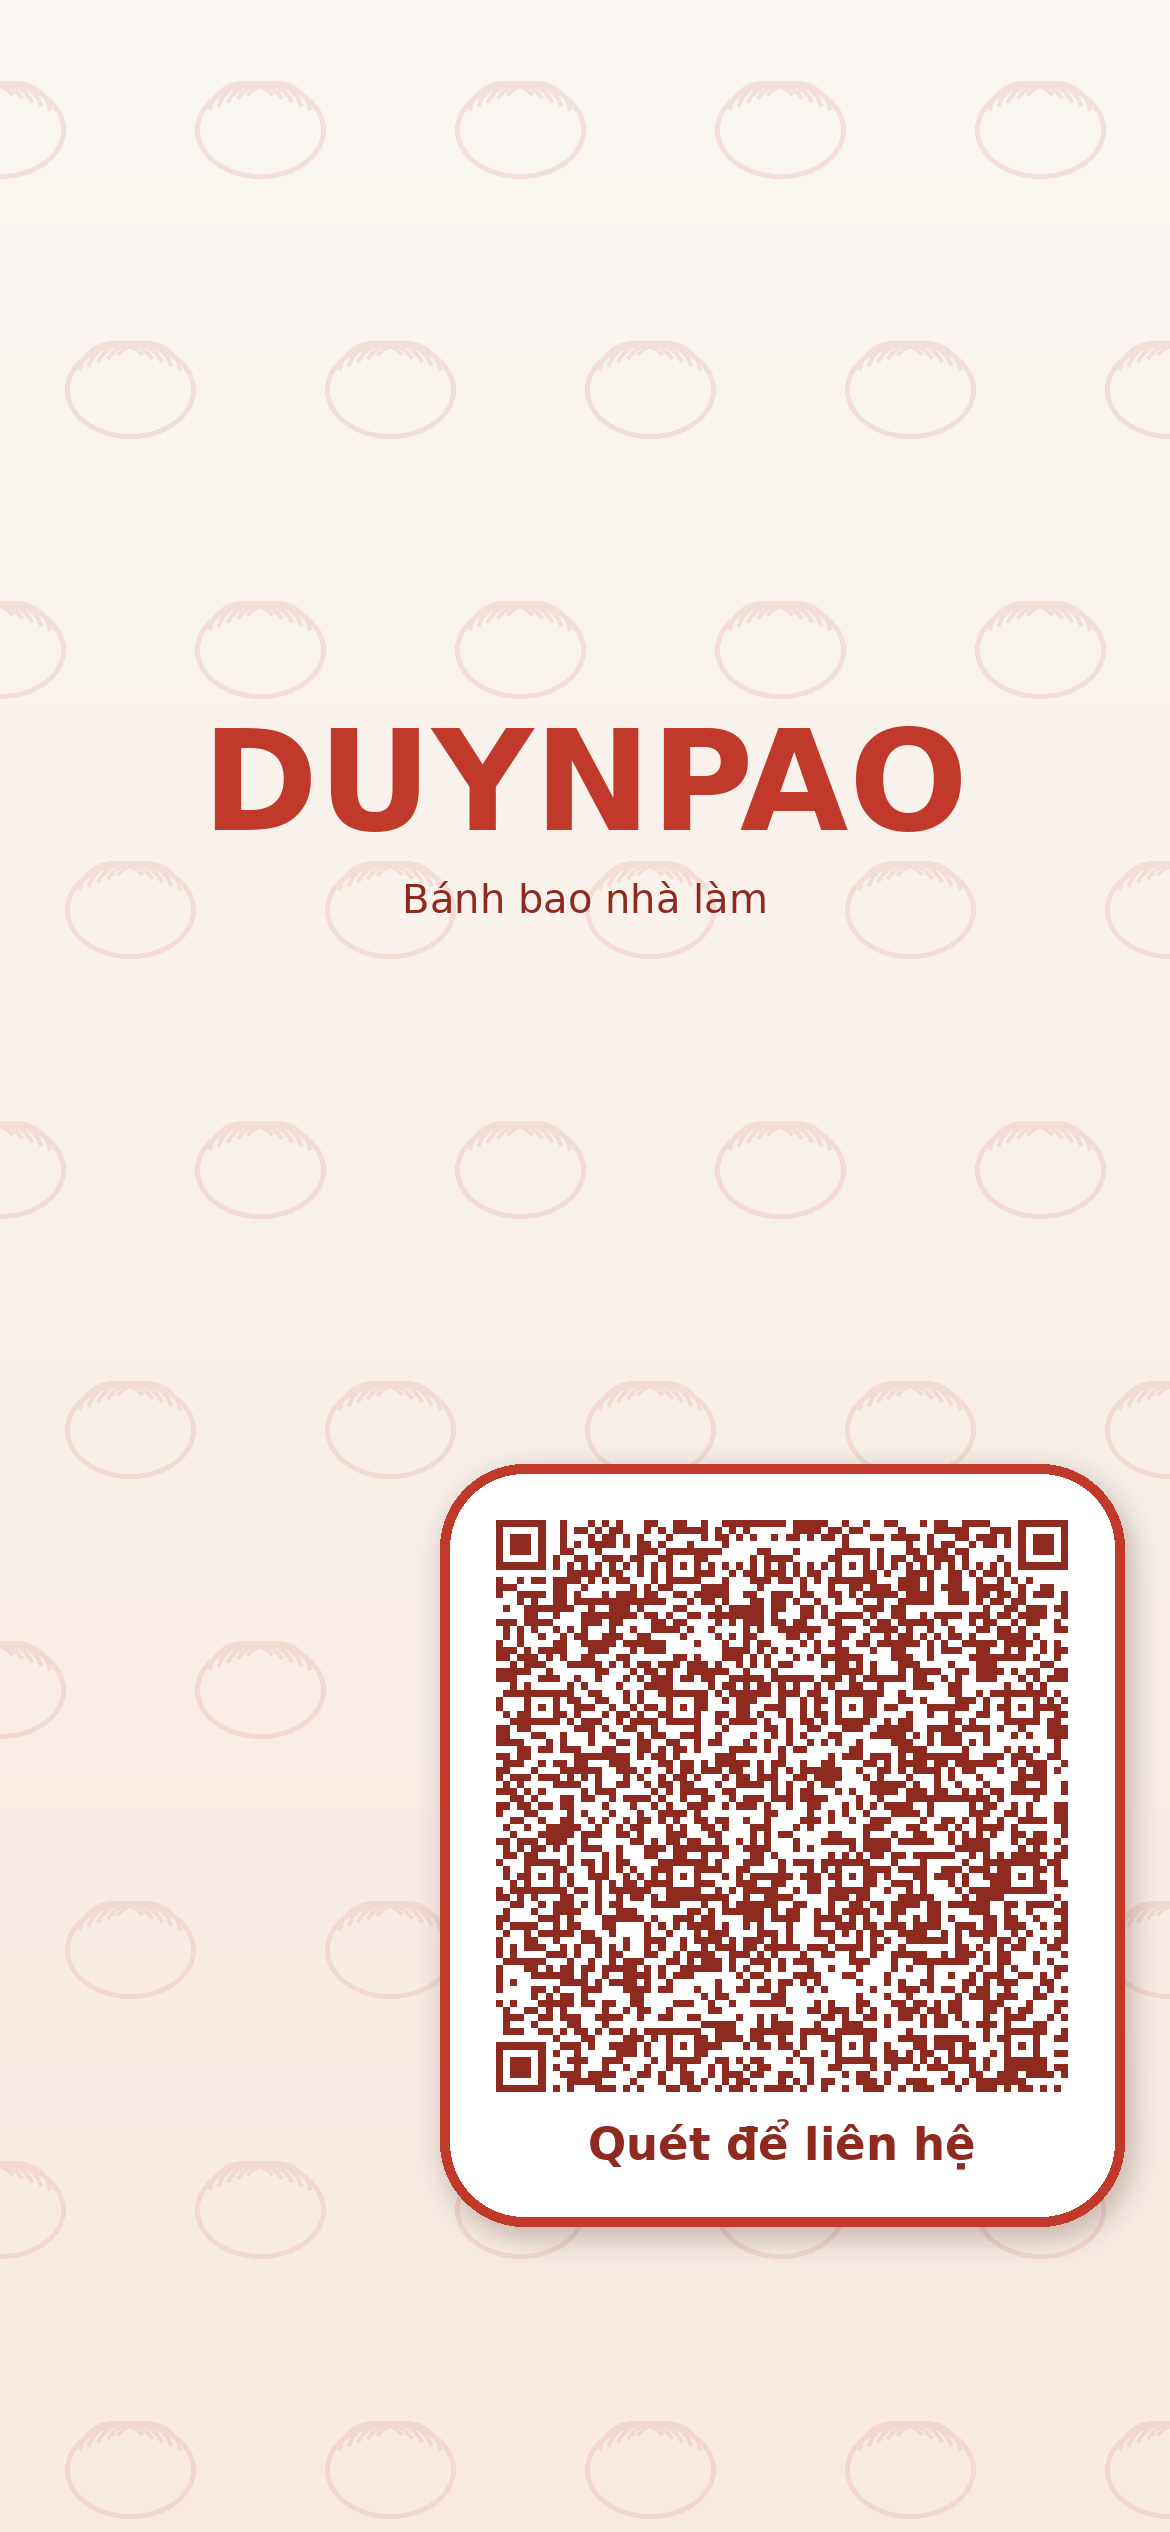
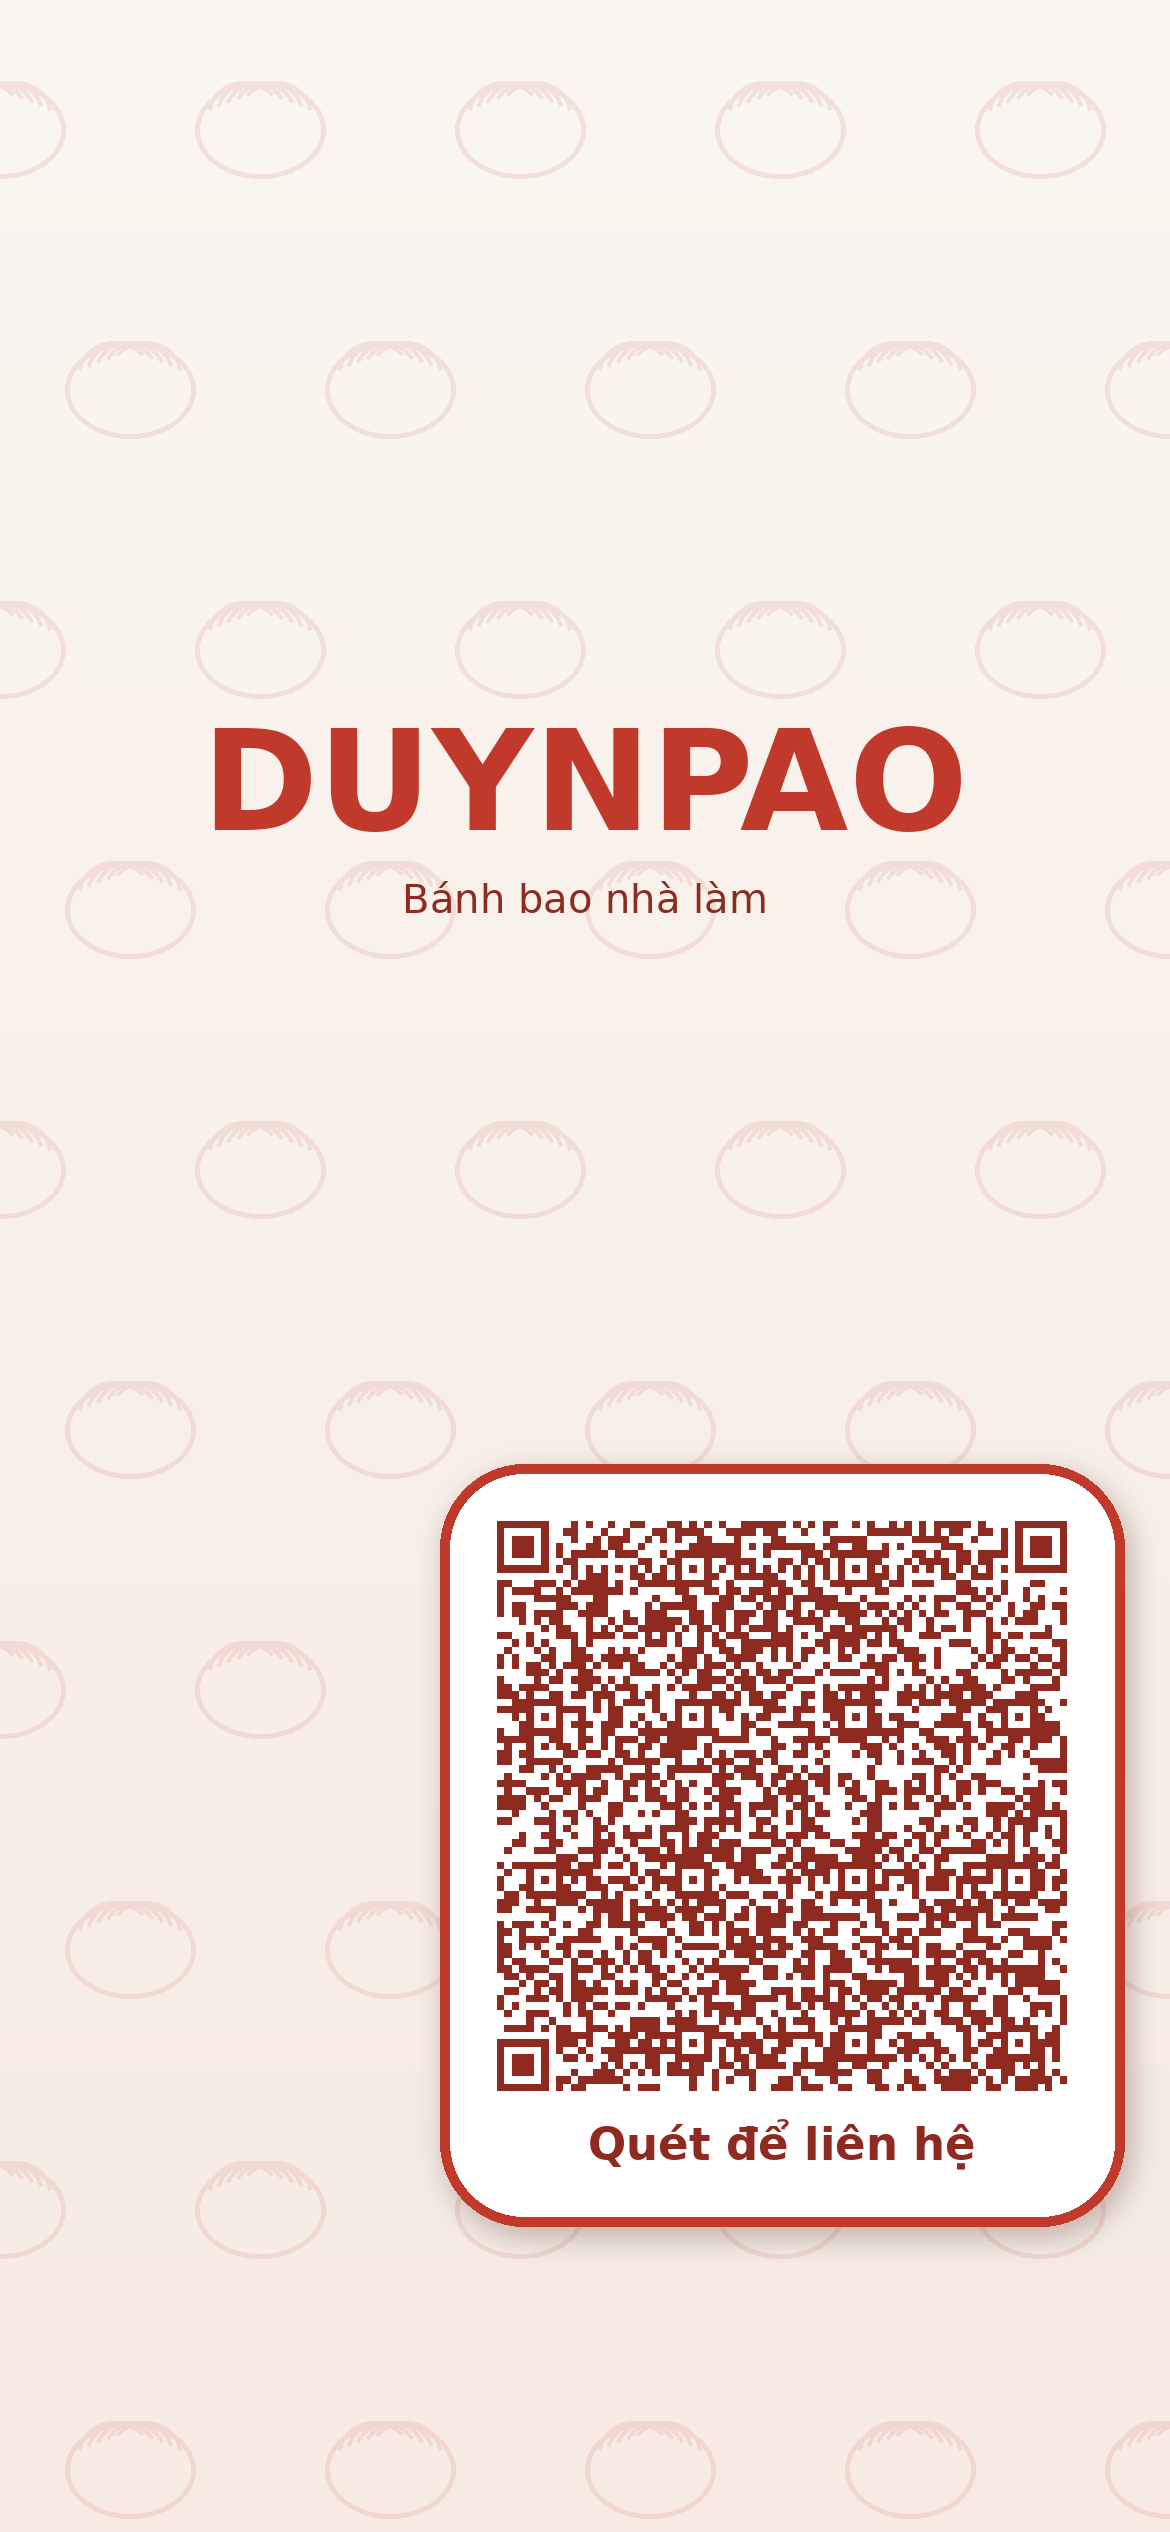
Thêm link TikTok vào mã QR liên hệ, rút gọn dữ liệu cho dễ quét
Claude-Session: https://claude.ai/code/session_015fjm6foX8zWx1prmuFfGVJ

Changed region(s): [[0.4, 0.5928, 0.9231, 0.8424]]

diff --git a/qr/tao_qr.py b/qr/tao_qr.py
@@ -6,21 +6,23 @@ import os
 HERE = os.path.dirname(os.path.abspath(__file__))
 VCARD = "\r\n".join([
     "BEGIN:VCARD", "VERSION:3.0",
-    "N:;Duynpao;;;", "FN:Duynpao - Bánh bao", "ORG:Duynpao",
+    "N:;Duynpao;;;", "FN:Duynpao - Bánh bao",
     "TEL;TYPE=CELL:0975392409",
     "TEL;TYPE=CELL:0925983535",
     "URL:https://zalo.me/0975392409",
-    "item1.URL:https://www.facebook.com/oduyen.412635",
+    "item1.URL:https://facebook.com/oduyen.412635",
     "item1.X-ABLabel:Facebook",
-    "item2.URL:https://www.facebook.com/duynpao",
+    "item2.URL:https://facebook.com/duynpao",
     "item2.X-ABLabel:Fanpage",
     "item3.URL:https://drive.google.com/file/d/18yF7zXvWLI34RQ8Q5gWO359D9-DyRhZ0/view",
     "item3.X-ABLabel:Catalog",
+    "item4.URL:https://tiktok.com/@duynpao10",
+    "item4.X-ABLabel:TikTok",
     "END:VCARD",
 ])
 
 RED, DARK, BG = (192, 57, 43), (142, 42, 31), (250, 246, 241)
-qr = qrcode.QRCode(error_correction=qrcode.constants.ERROR_CORRECT_M, box_size=20, border=2)
+qr = qrcode.QRCode(error_correction=qrcode.constants.ERROR_CORRECT_L, box_size=20, border=2)
 qr.add_data(VCARD.encode("utf-8"))
 qr.make(fit=True)
 code = qr.make_image(fill_color=DARK, back_color="white").convert("RGB")
@@ -30,7 +32,7 @@ F = "/usr/share/fonts/truetype/dejavu/DejaVuSans"
 f_title = ImageFont.truetype(F + "-Bold.ttf", 84)
 f_sub = ImageFont.truetype(F + ".ttf", 40)
 f_line = ImageFont.truetype(F + "-Bold.ttf", 44)
-lines = ["SĐT / Zalo: 0975 392 409", "SĐT / Zalo: 0925 983 535", "Fanpage: fb.com/duynpao", "Quét để xem Catalog & Facebook"]
+lines = ["SĐT / Zalo: 0975 392 409", "SĐT / Zalo: 0925 983 535", "Fanpage: fb.com/duynpao", "TikTok: @duynpao10"]
 H = 200 + code.height + 90 + len(lines) * 66 + 70
 img = Image.new("RGB", (W, H), BG)
 d = ImageDraw.Draw(img)

diff --git a/qr/tao_hinh_nen_anh.py b/qr/tao_hinh_nen_anh.py
@@ -42,7 +42,7 @@ img.save(os.path.join(HERE, "hinh-nen-anh-may-tinh.png"))
 W, H = 1170, 2532
 img = Image.new("RGB", (W, H), CREAM)
 place(img, (1120, 1120), (25, 230), 70)
-qs = 440; cw = qs + 2*int(qs*0.07); ch = qs + 2*int(qs*0.07) + int(qs*0.13)
+qs = 510; cw = qs + 2*int(qs*0.07); ch = qs + 2*int(qs*0.07) + int(qs*0.13)
 qr_card(img, 60, 1370, qs)
 img.save(os.path.join(HERE, "hinh-nen-anh-dien-thoai.png"))
 print("xong")
